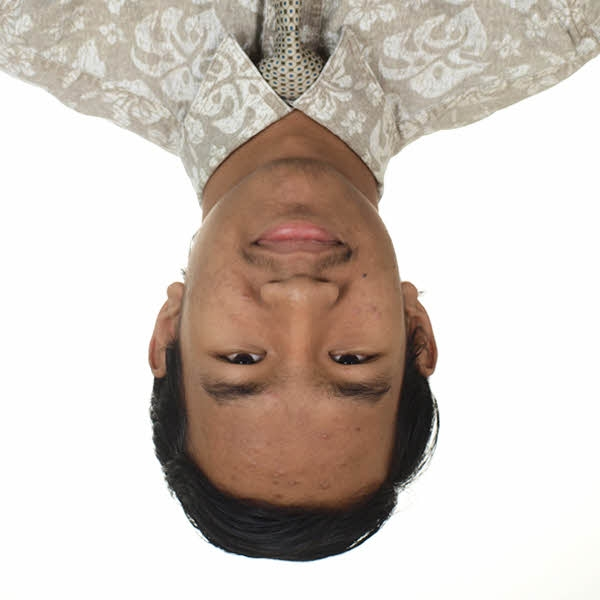
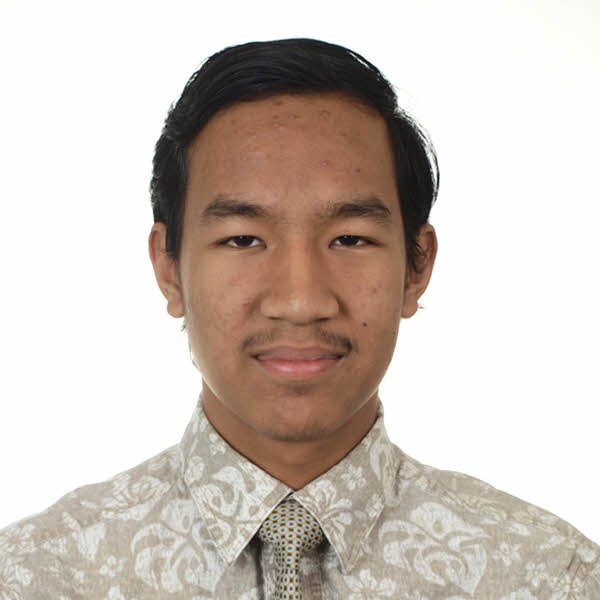
Made head right-side up

diff --git a/src/css/style.css b/src/css/style.css
@@ -34,11 +34,11 @@
   min-height: 100%;
   width: 100%;
   height: 100%;
-  -webkit-transform: translate(0,-50%);
-  -moz-transform: translate(0,-50%);
-  -o-transform: translate(0,-50%);
-  -ms-transform: translate(0,-50%);
-  transform: translate(0,-50%);
+  -webkit-transform: translate(0,50%);
+  -moz-transform: translate(0,50%);
+  -o-transform: translate(0,50%);
+  -ms-transform: translate(0,50%);
+  transform: translate(0,50%);
   -webkit-transition: 0.5s ease-in-out;
   -o-transition: 0.5s ease-in-out;
   transition: 0.5s ease-in-out;

diff --git a/src/index.html b/src/index.html
@@ -15,7 +15,7 @@
       <!-- https://css-tricks.com/snippets/css/a-guide-to-flexbox/ -->
       <div class="row">
         <div class="col s1"></div>
-        <div class="col s3" id="awesome-pic"><img src="headshot.jpg"></div>
+        <div class="col s3" id="awesome-pic">v<b>Hover over my face</b>v<img src="headshot.jpg"></div>
         <div class="col s6"><h3 class="center">Binam's Projects</h3></div>
         <div class="col s1"></div>
       </div>
